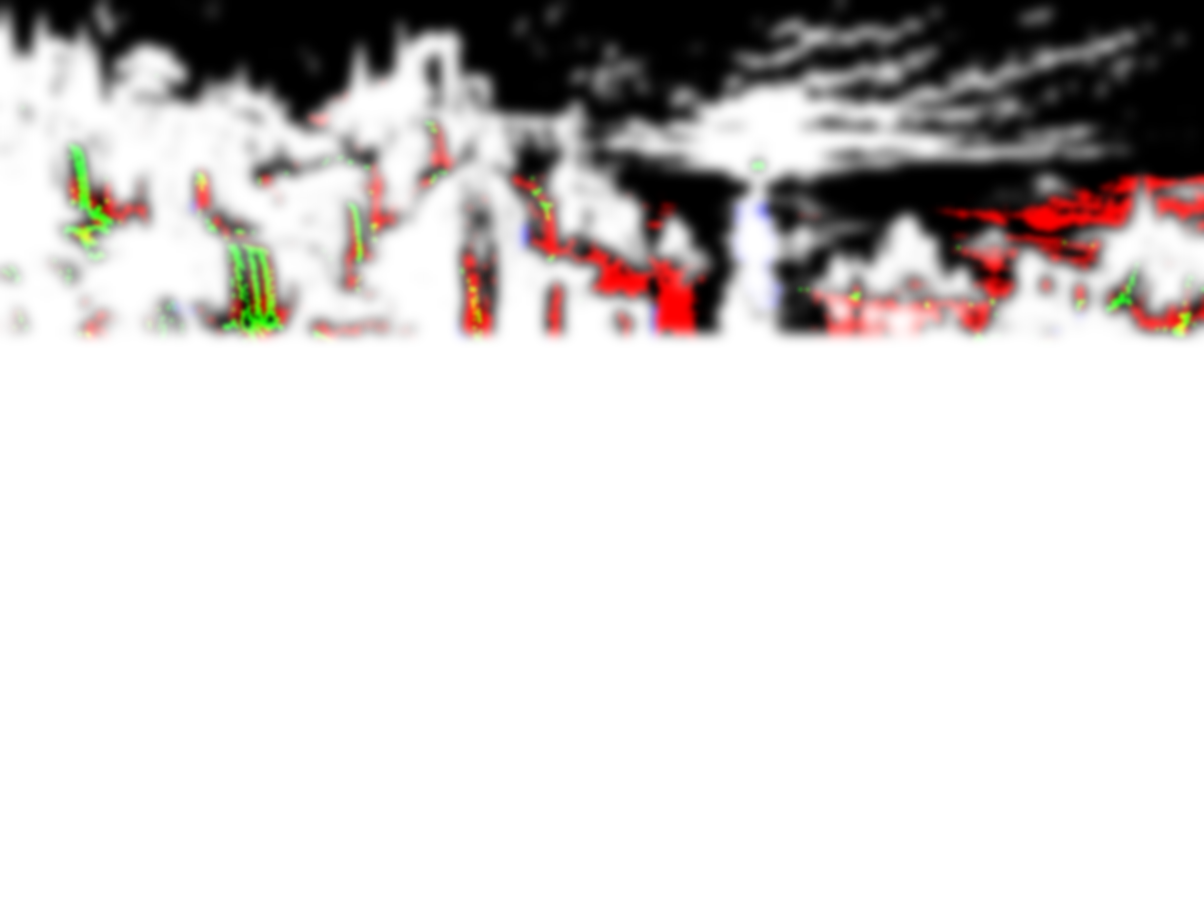
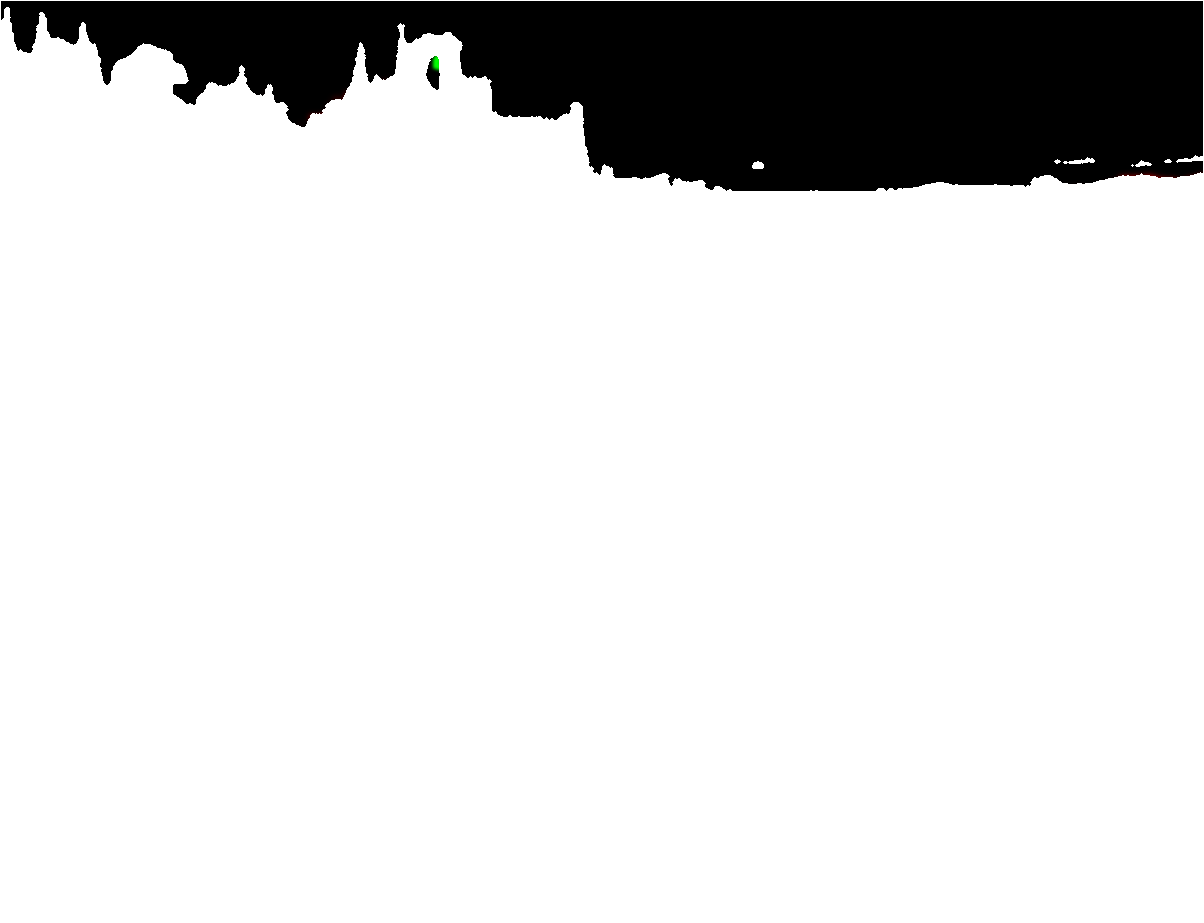
Sanctuary sharp and vibrant: land sky mask only on the real sky (no white 'clouds' on the land by day), 2x sharpened land, daytime dehaze, waterfall mask from real streaks, gentler relief and calmer drift (no smeared gaps)

Changed region(s): [[0.0, 0.0, 1.0, 0.3944], [0.4302, 0.0, 0.4917, 0.0303], [0.0, 0.3337, 0.0307, 0.364]]

diff --git a/prototypes/p2-spikes/SpikeLab/S2View.swift b/prototypes/p2-spikes/SpikeLab/S2View.swift
@@ -106,7 +106,9 @@ final class SanctuaryScene {
         return Float(sum) / Float(n * 255)
     }
     /// How much nearer than the base plane a point sits, from its depth (lifted mid-tones so the arches separate).
-    private func relief(_ g: Float) -> Float { 0.45 * pow(g, 0.6) - 0.15 }
+    /// Gentler with the living layers: strong relief opened gaps behind near things (the arches) that filled with
+    /// stretched, blurry waterfall pixels when the camera moved. The sky and sea layers now give most of the depth.
+    private func relief(_ g: Float) -> Float { layers == nil ? 0.45 * pow(g, 0.6) - 0.15 : 0.2 * pow(g, 0.6) - 0.065 }
 
     func build() async throws {
         let lib = MTLCreateSystemDefaultDevice()?.makeDefaultLibrary()
@@ -248,8 +250,10 @@ final class SanctuaryScene {
 
         try await life.build()
         root.addChild(life.root)
-        try await elements.build(spot: { [unowned self] u, v in self.spot(self.hx(u), v) }, paintingW: w, withClouds: layers == nil)
-        root.addChild(elements.root)
+        if !CommandLine.arguments.contains("-noelements") {      // (test flag: the world without particles)
+            try await elements.build(spot: { [unowned self] u, v in self.spot(self.hx(u), v) }, paintingW: w, withClouds: layers == nil)
+            root.addChild(elements.root)
+        }
 
         // Soft glowing motes drifting close to the camera, in front of the whole world (depth and air).
         let motes = Entity()
@@ -265,6 +269,9 @@ final class SanctuaryScene {
 
         camera.camera.fieldOfViewInDegrees = Self.fov
         root.addChild(camera)
+        if CommandLine.arguments.contains("-onlyland") {        // (test flag: only the land painting)
+            for e in root.children where e !== painting && e !== camera { e.isEnabled = false }
+        }
     }
 
     /// How much nearer than the base plane each row of the painting sits: the water is near, the steps a bit
@@ -368,8 +375,9 @@ final class SanctuaryScene {
             comp.materials = [m]; painting.model = comp
         }
         // The camera breathes very slowly (an alive world), and follows the phone's tilt for parallax.
-        let drift = autoDrift ? SIMD2(noise.sample(time * 0.08), noise.sample(time * 0.06 + 30)) * 0.12 : SIMD2(noise.sample(time * 0.08), noise.sample(time * 0.06 + 30)) * 0.04
-        var offset = SIMD3<Float>(tilt.x * 0.11 + drift.x, -tilt.y * 0.07 + drift.y * 0.6, sin(time * 0.11) * 0.05)
+        let driftAmp: Float = layers != nil ? 0.03 : (autoDrift ? 0.12 : 0.04)     // a calm breath, not a sway
+        let drift = SIMD2(noise.sample(time * 0.08), noise.sample(time * 0.06 + 30)) * driftAmp
+        var offset = SIMD3<Float>(tilt.x * 0.11 + drift.x, -tilt.y * 0.07 + drift.y * 0.6, sin(time * 0.11) * (layers != nil ? 0.015 : 0.05))
         if CommandLine.arguments.contains("-camtest") { offset = SIMD3(sin(time * 1.2) > 0 ? 0.1 : -0.1, cos(time * 0.9) > 0 ? 0.07 : -0.07, 0.05) }
         offset.x = max(-0.1, min(0.1, offset.x)); offset.y = max(-0.07, min(0.07, offset.y))
         let (wantPos, wantLook): (SIMD3<Float>, SIMD3<Float>) = focus.map { f0 in

diff --git a/prototypes/p2-spikes/SpikeLab/Shell/HomeView.swift b/prototypes/p2-spikes/SpikeLab/Shell/HomeView.swift
@@ -23,7 +23,7 @@ struct HomeView: View {
                 Color.black.ignoresSafeArea()
                 RealityView { content in
                     content.camera = .virtual
-                    do { try await scene.build() } catch { return }
+                    do { try await scene.build() } catch { print("SCENE BUILD FAILED:", error); return }
                     content.add(scene.root)
                     scene.setVitality(1)
                     let d = AliveDirector(seed: 5, meter: meter)

diff --git a/prototypes/p2-spikes/tools/fall_mask.py b/prototypes/p2-spikes/tools/fall_mask.py
@@ -1,0 +1,34 @@
+#!/usr/bin/env python3
+"""Rebuild the falling-water channel (G) of world-motion.png from the streaks of real waterfalls only.
+Waterfalls are pale AND streaked vertically (strong left-right contrast, little up-down contrast); painted mist is
+pale but smooth, so it is left alone (animating it as water turned it into white fog). Run from prototypes/p2-spikes."""
+import sys
+import numpy as np
+from PIL import Image, ImageFilter
+from scipy import ndimage as nd
+
+A = "SpikeLab/Assets"
+w = Image.open(f"{A}/world-paint.png").convert("RGB")
+W, H = w.size
+s = w.resize((W // 2, H // 2)); px = np.asarray(s).astype(float) / 255
+hsv = np.asarray(s.convert("HSV")).astype(float) / 255
+v, sat = hsv[..., 2], hsv[..., 1]
+L = px @ [0.299, 0.587, 0.114]
+mgx = nd.uniform_filter(np.abs(nd.sobel(L, axis=1)), 7)
+mgy = nd.uniform_filter(np.abs(nd.sobel(L, axis=0)), 7)
+fall = (v > 0.74) & (sat < 0.22) & (mgx > 1.3 * mgy) & (mgx > 0.04)
+fall = nd.binary_opening(fall, iterations=1)
+lab, n = nd.label(nd.binary_closing(fall, structure=np.ones((5, 1)), iterations=2))
+keep = np.zeros(n + 1, bool)
+for i, o in enumerate(nd.find_objects(lab)):
+    hgt, wid = o[0].stop - o[0].start, o[1].stop - o[1].start
+    keep[i + 1] = hgt >= 8 and hgt >= 1.1 * wid
+fall = keep[lab] & fall
+g = Image.fromarray((fall * 255).astype(np.uint8)).filter(ImageFilter.MaxFilter(3)).filter(ImageFilter.GaussianBlur(1.5))
+m = np.asarray(Image.open(f"{A}/world-motion.png")).copy()
+m[..., 1] = np.asarray(g.resize((m.shape[1], m.shape[0]), Image.BILINEAR))
+Image.fromarray(m, "RGBA").save(f"{A}/world-motion.png")
+if len(sys.argv) > 1:
+    vis = (px * 255 * 0.5).astype(np.uint8); vis[fall] = [0, 255, 0]
+    Image.fromarray(vis).save(sys.argv[1])
+print("falling water", round(fall.mean(), 4))

diff --git a/prototypes/p2-spikes/tools/cut_layers.py b/prototypes/p2-spikes/tools/cut_layers.py
@@ -93,7 +93,20 @@ def up(mask):
 hole = np.maximum(up(sea), up(sky))
 land_alpha = 1 - hole
 paint = np.asarray(world)
-Image.fromarray(np.dstack([paint, (land_alpha * 255).astype(np.uint8)]), "RGBA").save(f"{A}/world-land.png")
+land = Image.fromarray(np.dstack([paint, (land_alpha * 255).astype(np.uint8)]), "RGBA")
+# The phone shows the painting magnified about 1.7×: doubling it here with a high-quality resampling and a gentle
+# sharpening keeps it crisp (the GPU's own magnification is softer).
+land = land.resize((W * 2, H * 2), Image.LANCZOS)
+rgb2 = land.convert("RGB").filter(ImageFilter.UnsharpMask(radius=1.6, percent=70, threshold=2))
+land = Image.merge("RGBA", (*rgb2.split(), land.split()[3]))
+land.save(f"{A}/world-land.png")
+
+# The land's motion mask: its sky channel (A) now only marks the real sky (cut out of the land). The old colour-based
+# sky mask also caught pale mist and far rocks, which the daylight grade turned into white clouds on the land.
+mo = Image.open(f"{A}/world-motion.png"); mw, mh = mo.size
+mo_np = np.asarray(mo).copy()
+mo_np[..., 3] = np.asarray(Image.fromarray((sky * 255).astype(np.uint8)).resize((mw, mh), Image.BILINEAR))
+Image.fromarray(mo_np, "RGBA").save(f"{A}/world-motion.png")
 
 # ---- The sky plate (+ its blurred light).
 sky_plate = Image.open(f"{D}/plate-sky.png").convert("RGB").resize((W, H), Image.LANCZOS)
